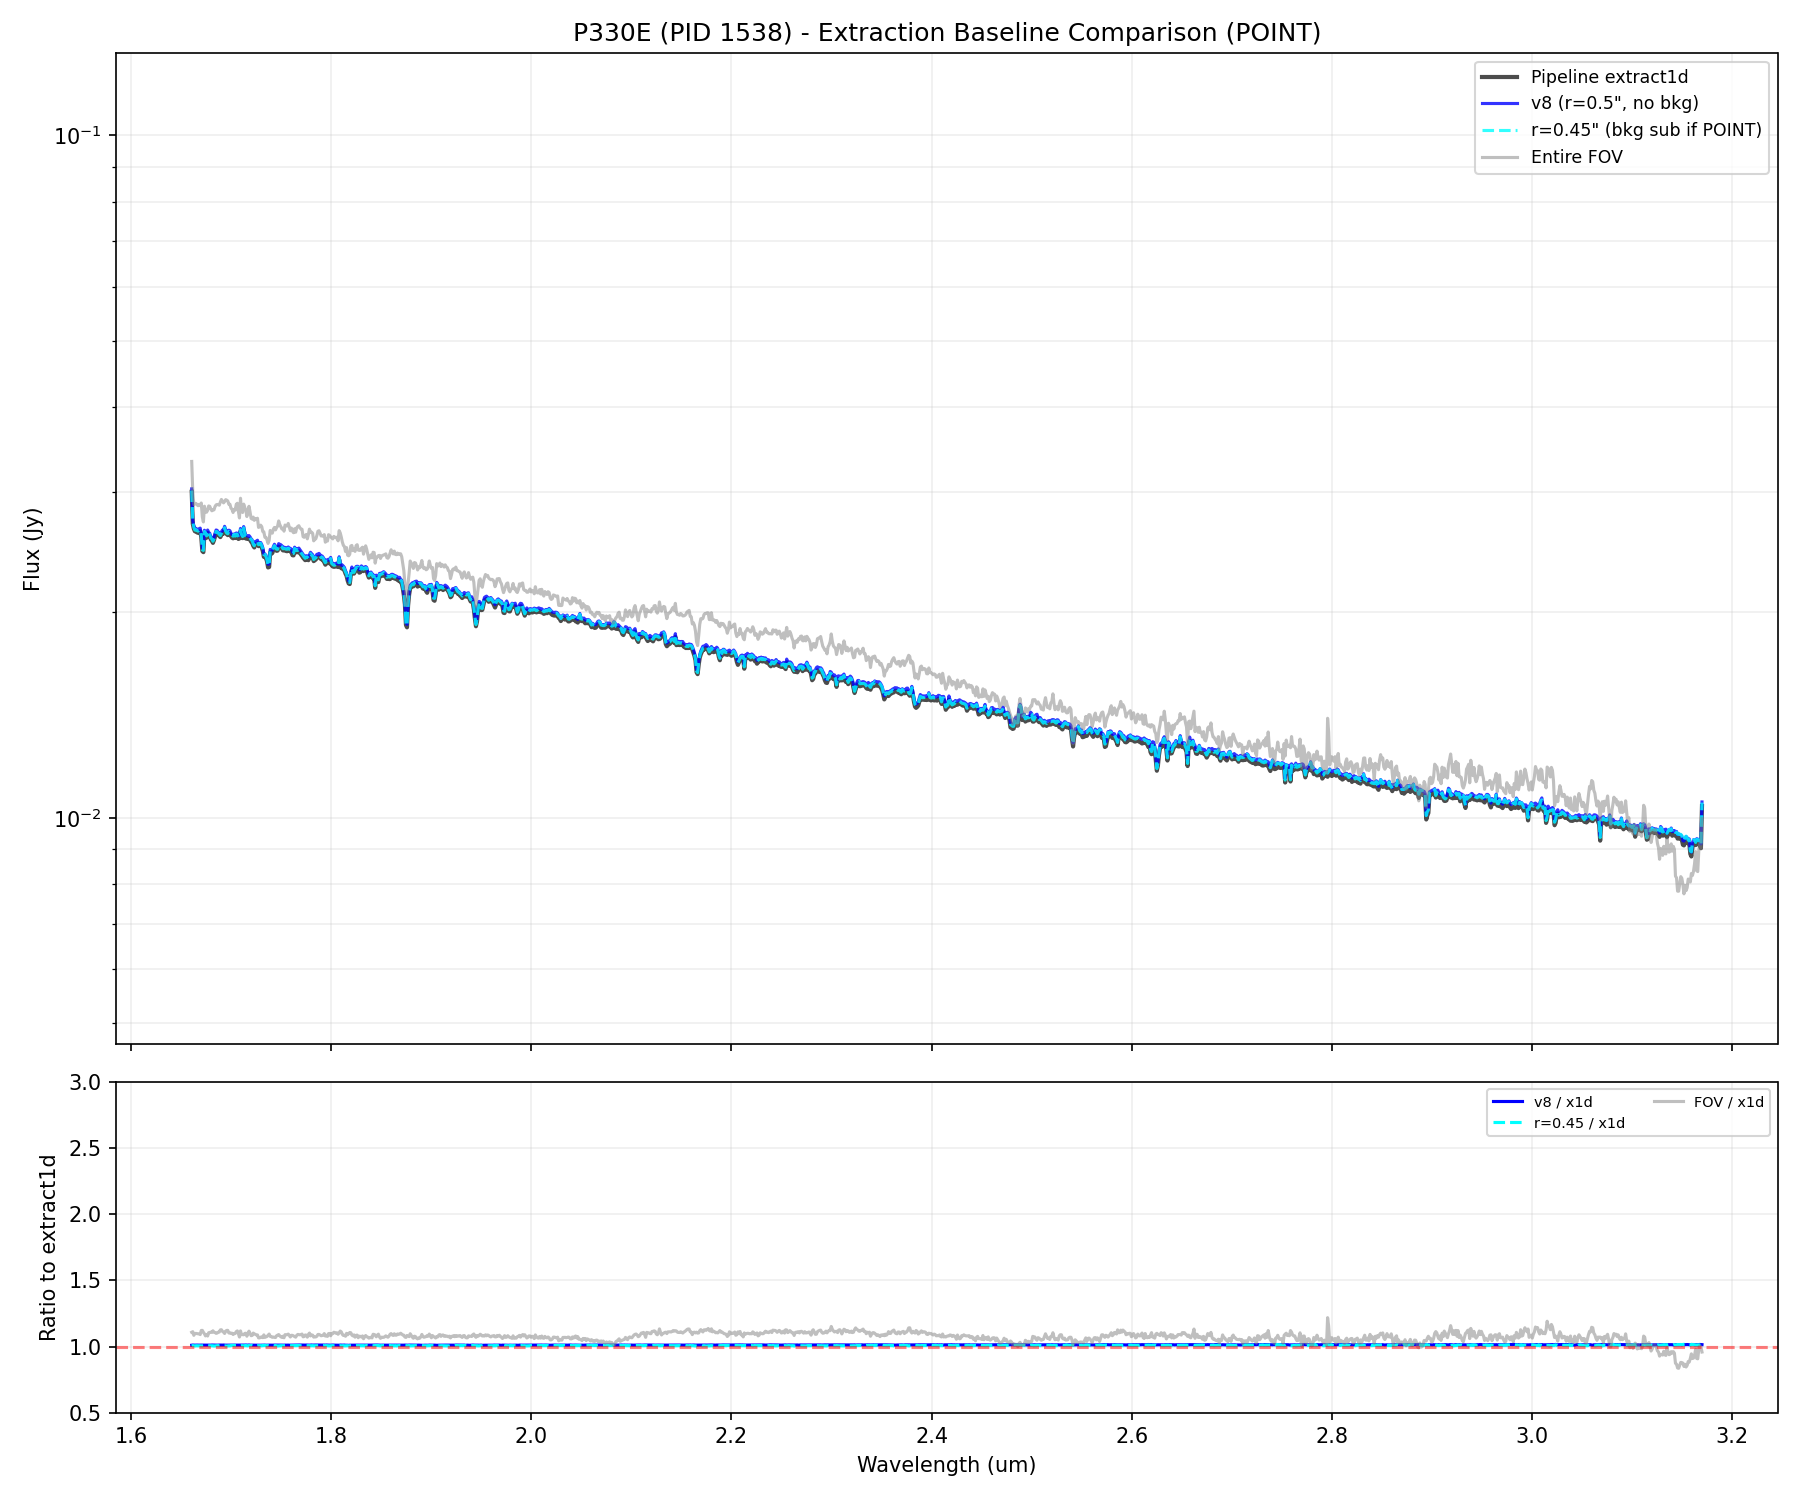
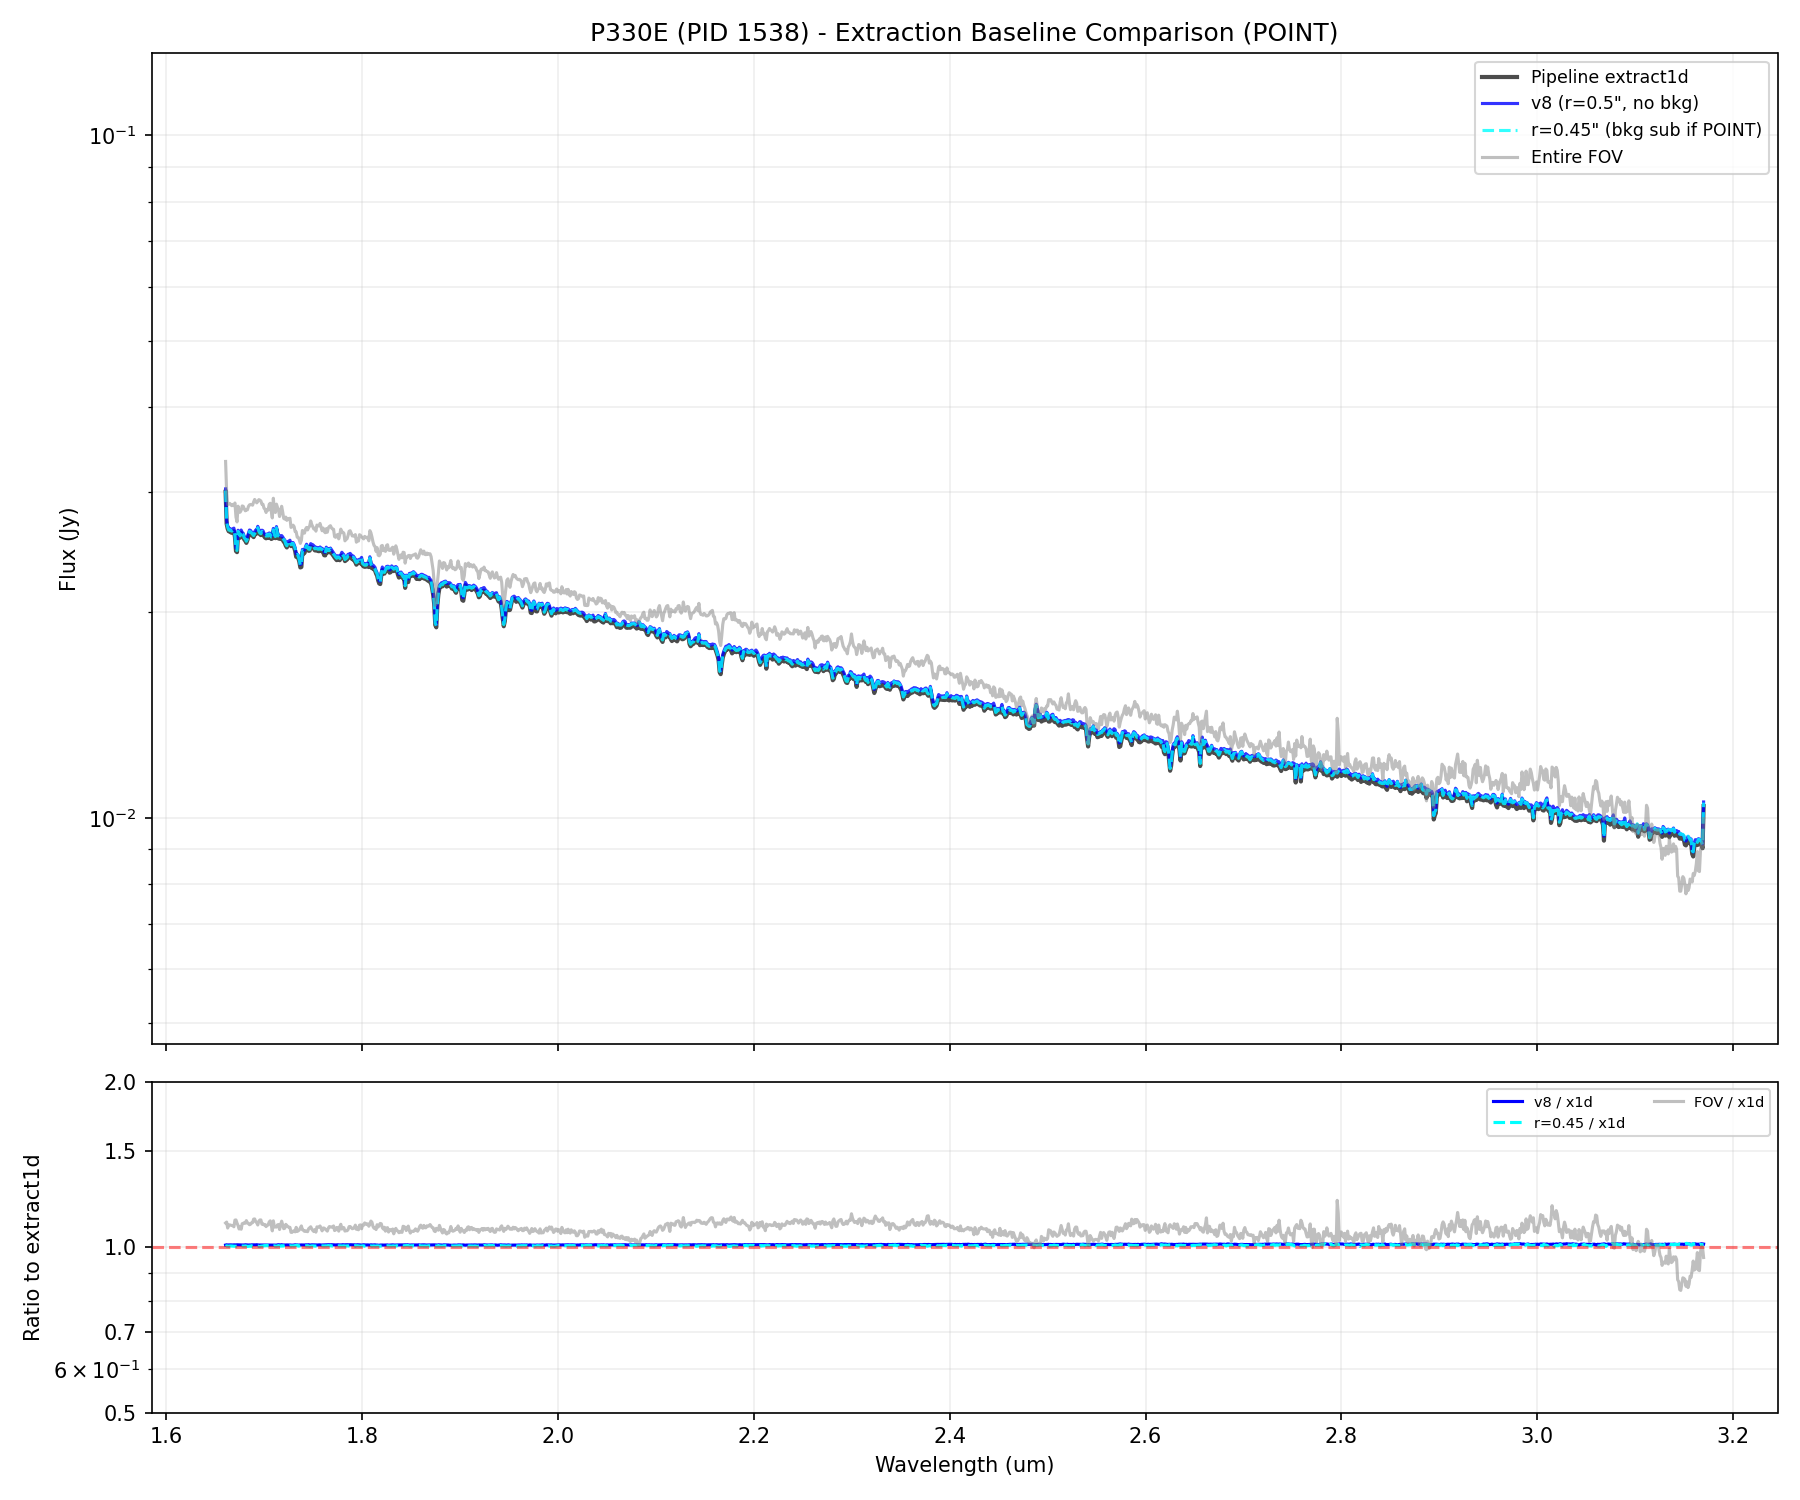
Update IFU extraction baseline ratio subplots to log scale (0.5 to 2.0).

diff --git a/reports/v8/ifu_v8/extractions_all_ifu_v8/extractions_all_ifu_v8.py b/reports/v8/ifu_v8/extractions_all_ifu_v8/extractions_all_ifu_v8.py
@@ -128,12 +128,15 @@ def plot_target(target, results):
     ax2.plot(wl, results['spec_fov'] / ref_flux, label='FOV / x1d', color='gray', alpha=0.5)
     ax2.axhline(1.0, color='red', linestyle='--', alpha=0.5)
     
+    ax2.set_yscale('log')
     ax2.set_ylabel("Ratio to extract1d")
     ax2.set_xlabel("Wavelength (um)")
-    # Set y-range to focus on relevant ratios, but accommodate FOV if larger
-    valid_fov_ratio = results['spec_fov'][valid] / ref_flux[valid]
-    r_max = min(10.0, np.nanpercentile(valid_fov_ratio, 95) * 1.2 if np.any(valid) else 3.0)
-    ax2.set_ylim(0.5, max(3.0, r_max))
+    ax2.set_ylim(0.5, 2.0)
+    
+    # Custom ticks for log ratio
+    from matplotlib.ticker import ScalarFormatter
+    ax2.yaxis.set_major_formatter(ScalarFormatter())
+    ax2.set_yticks([0.5, 0.7, 1.0, 1.5, 2.0])
     ax2.grid(True, which='both', alpha=0.2)
     ax2.legend(loc='upper right', ncol=2, fontsize='x-small')
     
